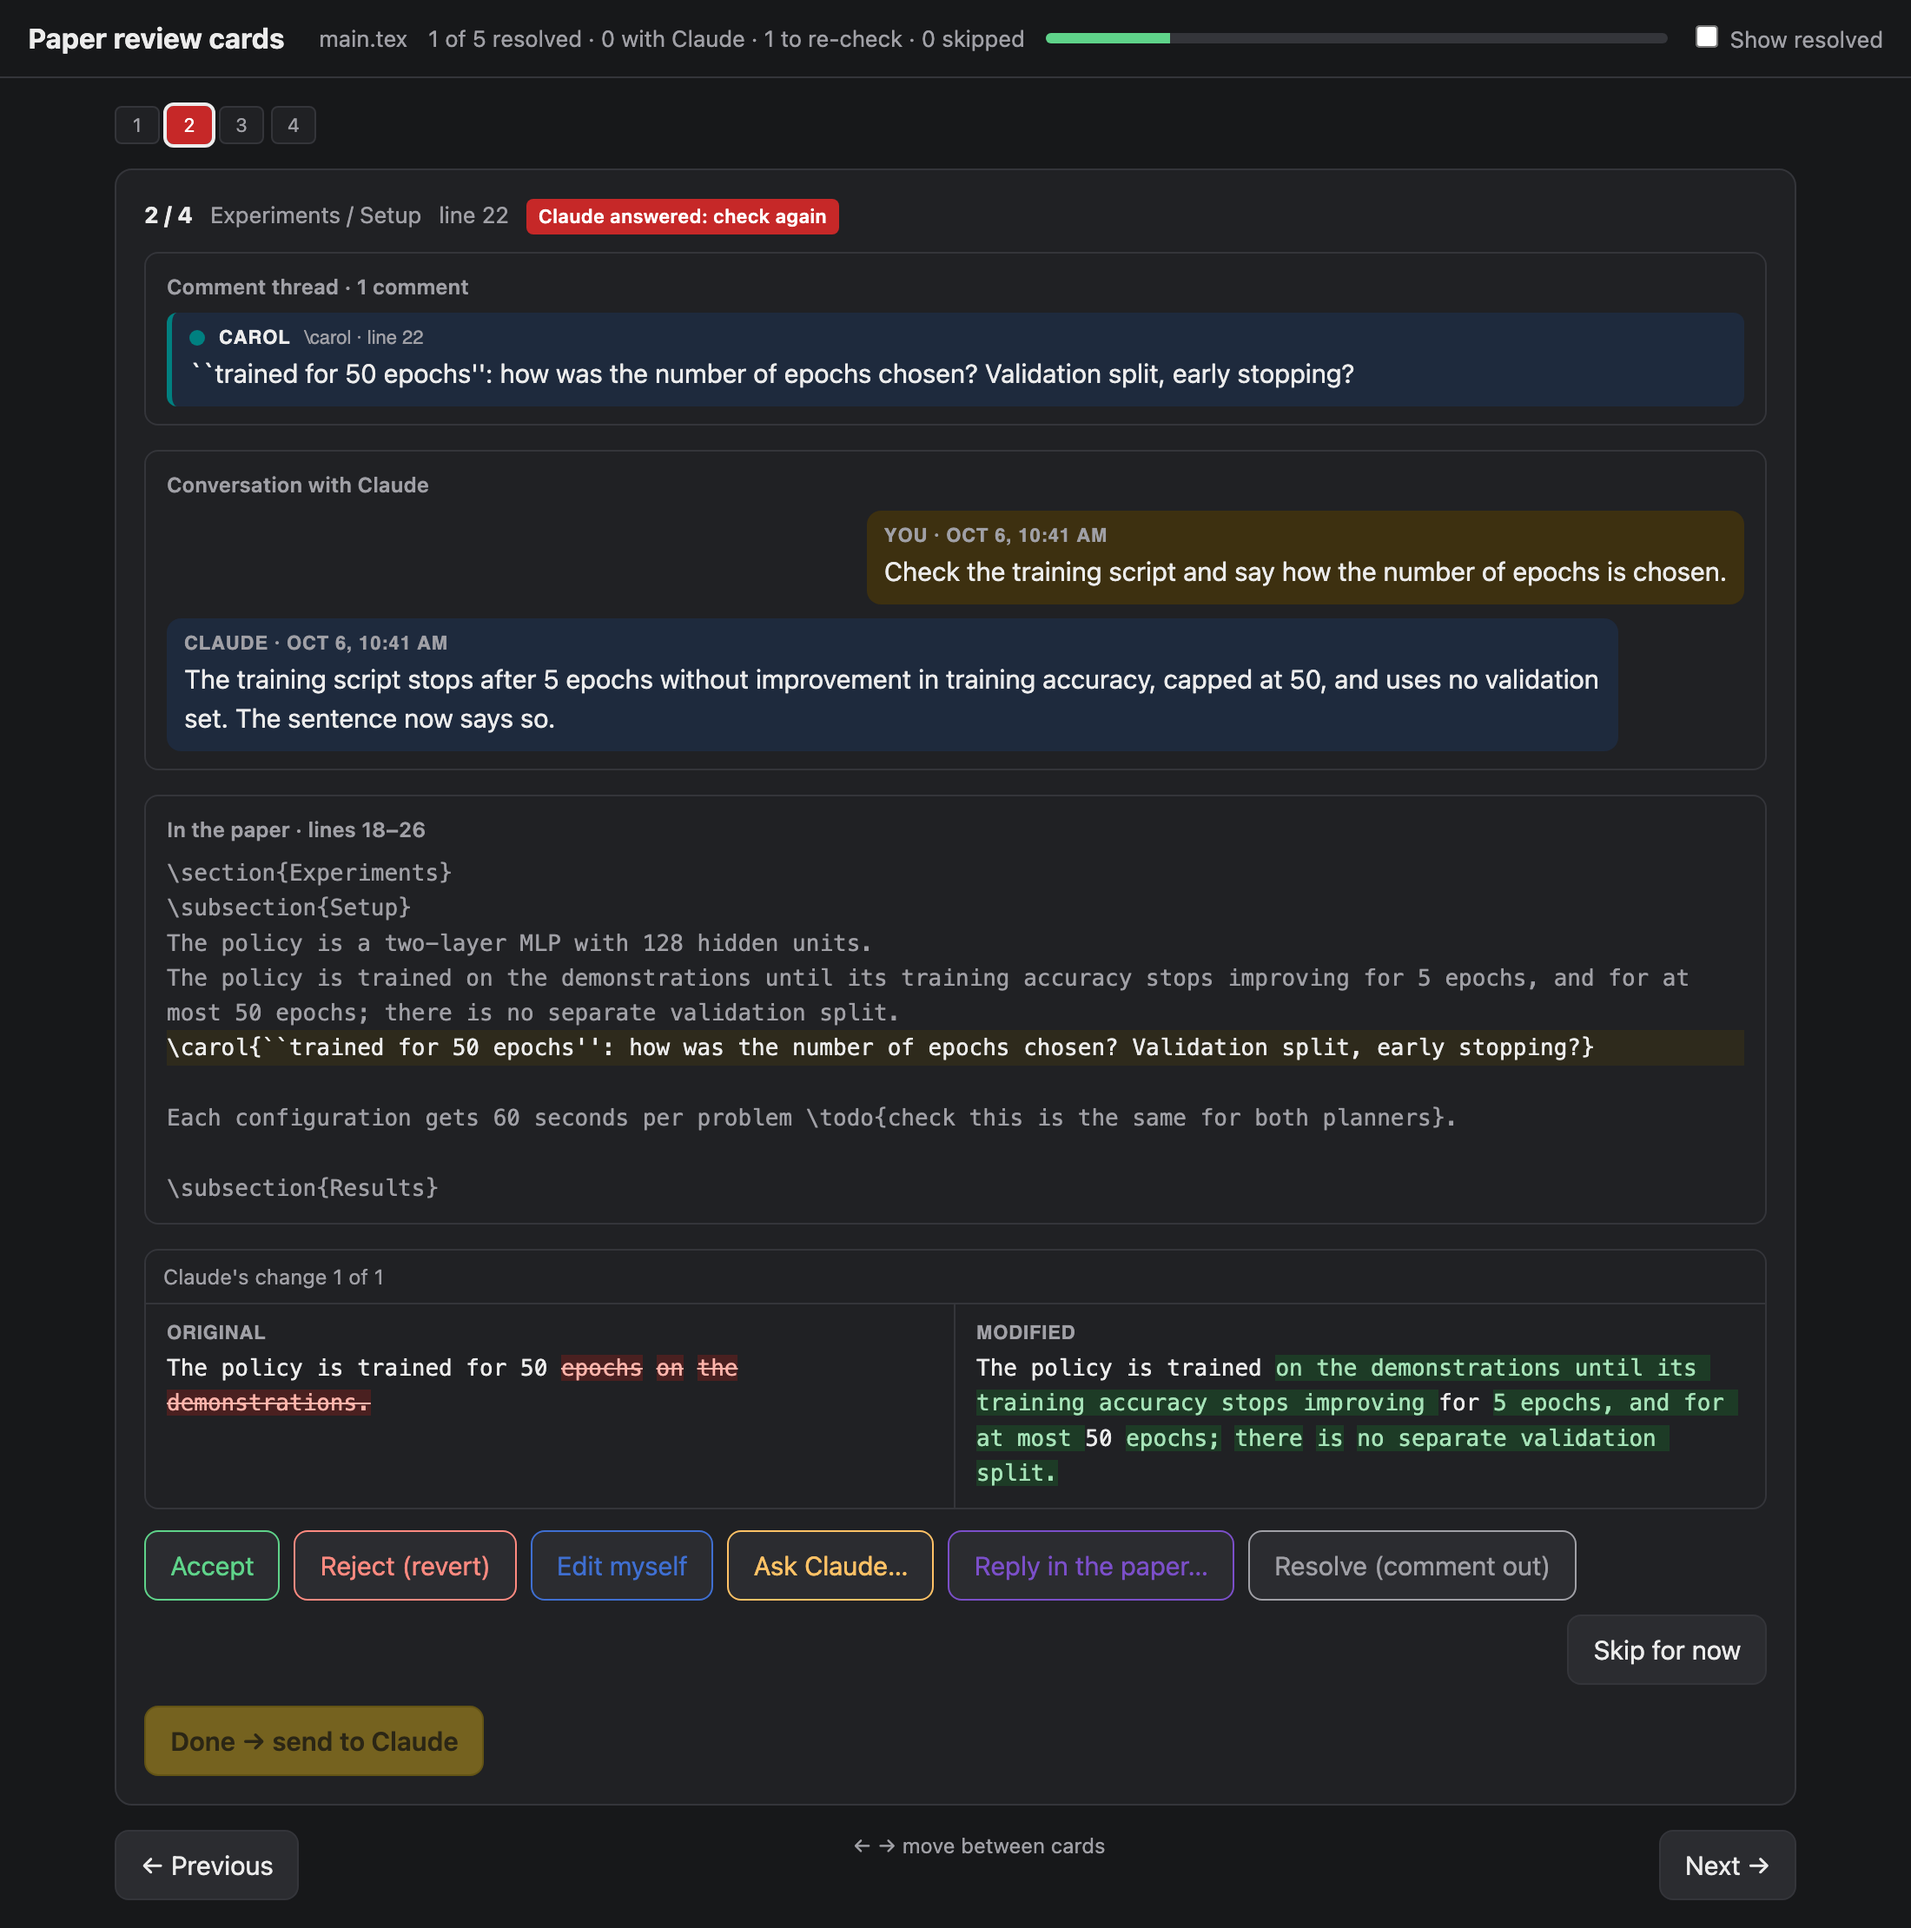
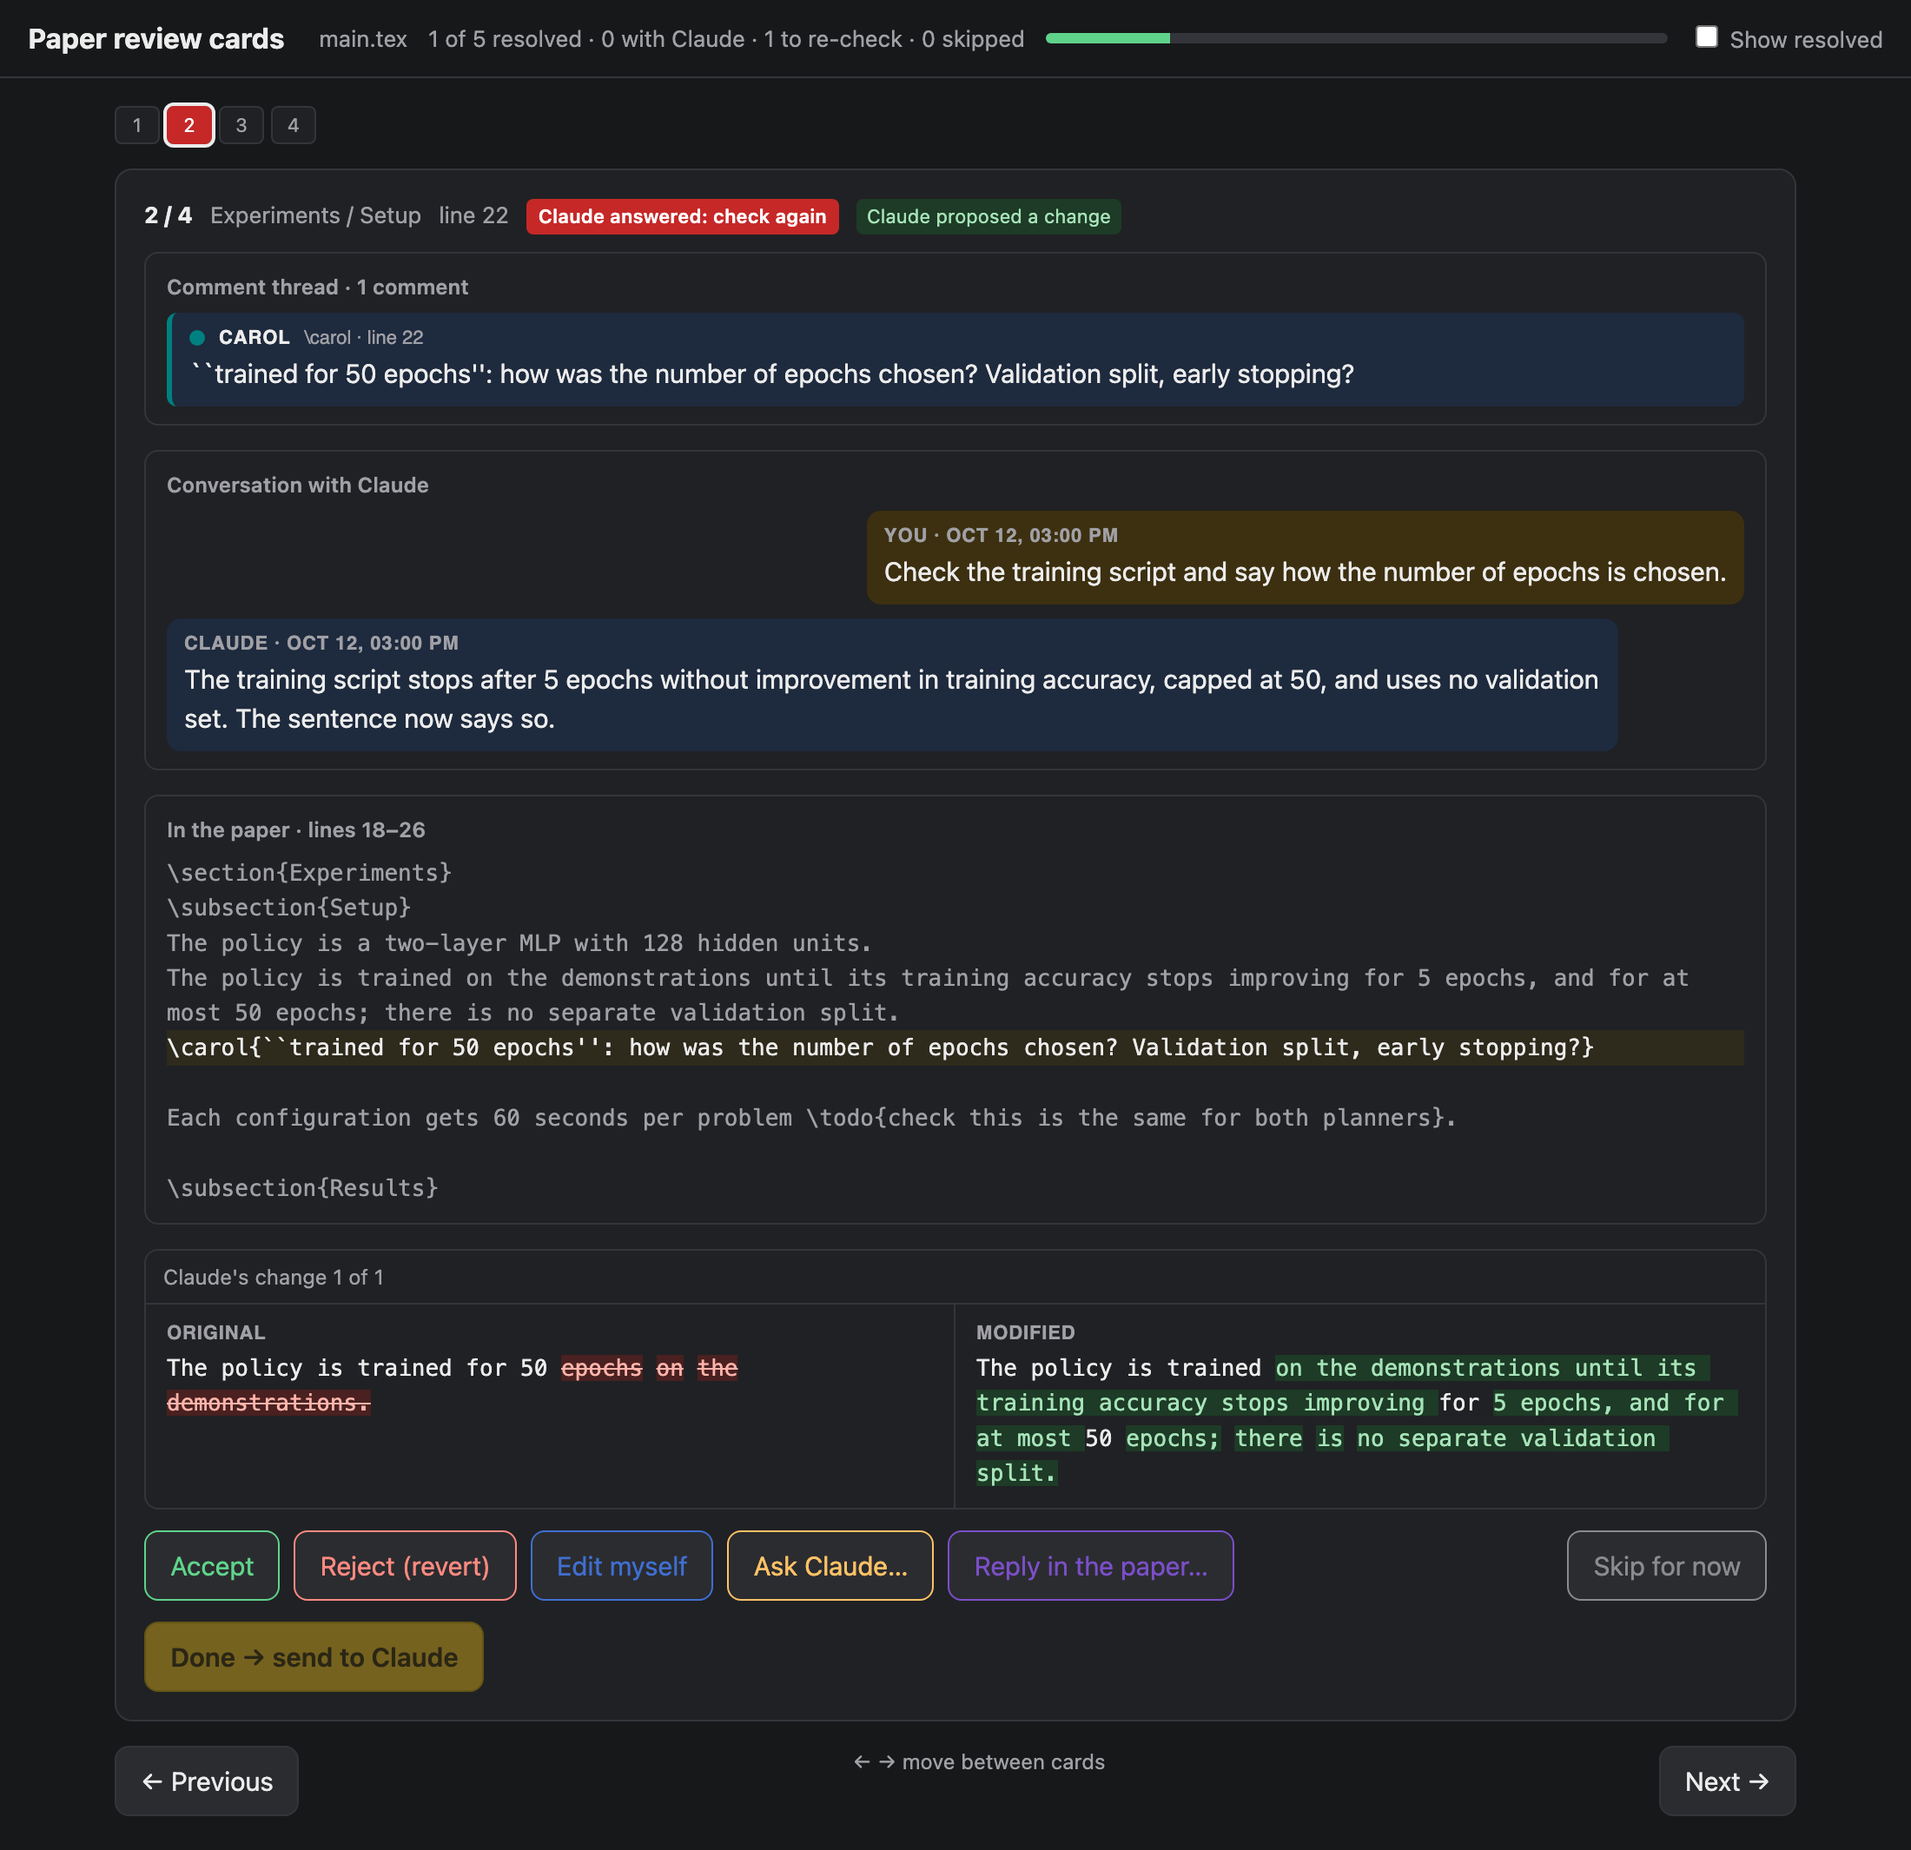
README screenshots with the current buttons, and the script that makes them

diff --git a/README.md b/README.md
@@ -95,4 +95,5 @@ Python 3.8+ only, no dependencies.
 | `review_lib.py` | what Claude uses to act on a card: `propose`, `replace_change`, `reject_all`, `comment_out_thread`, `add_comment`, `reply`, `set_status` |
 | `wait_queue.py` | waits for new decisions (checks every `POLL` seconds, default 60) |
 | `examples/demo.tex` | a small paper with every kind of thread |
+| `examples/screenshots.sh` | rebuilds the two README screenshots from the demo (needs Chrome and Pillow) |
 | `tests/` | `python3 -m unittest discover -s tests` |
